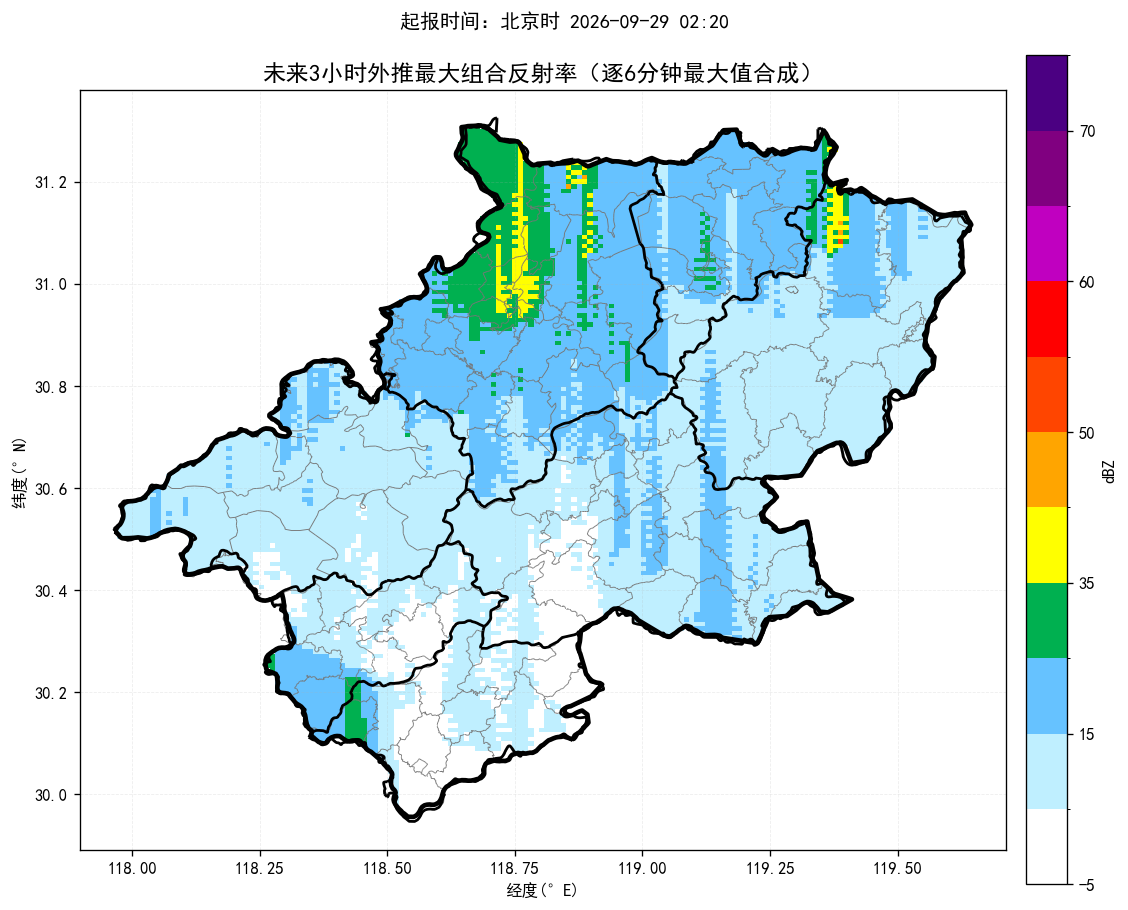
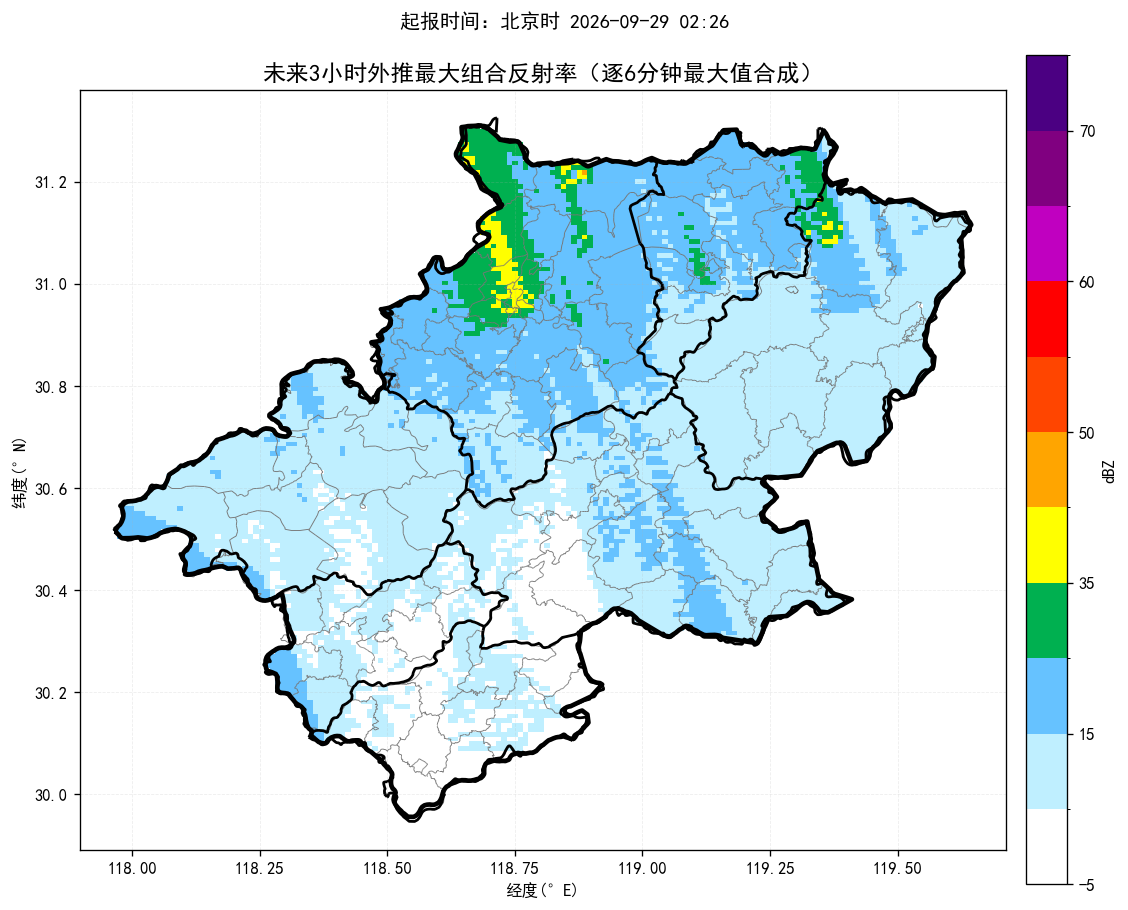
update nowcast products

diff --git a/index.html b/index.html
@@ -14,14 +14,14 @@ img.product{display:block;width:100%;height:auto;margin:10px auto 26px;border:1p
 .footer{font-size:13px;color:#777;text-align:center;margin-top:30px}
 @media(max-width:700px){.sheet{margin:0;padding:18px 15px}.alert-title{font-size:22px}.county-line{font-size:17px}.prob{font-size:18px}}
 </style></head><body><main class="sheet">
-<div class="time">起报时间：北京时 2026-09-29 02:20</div>
+<div class="time">起报时间：北京时 2026-09-29 02:26</div>
 <div class="alert-title">未来一小时降水量超过 20 毫米的乡镇：</div><div class="county-line">无</div>
 <div class="alert-title">未来三小时降水量超过 50 毫米的乡镇：</div><div class="county-line">无</div>
 <div class="alert-title">未来三小时雷暴大风（组合反射率 > 55 dBZ）的乡镇：</div><div class="county-line">无</div>
-<div class="prob">最大降水量概率预估：宣城市范围内未来三小时降水偏小，最大预报约7.6毫米，暂不进行50/80/100毫米概率预估。</div>
-<div class="section-title">未来降水预报图：</div><img class="product auto-refresh-product" data-src="短临降水预报.png" src="短临降水预报.png?v=20260929022631" alt="未来降水预报图">
-<div class="section-title">未来三小时组合反射率图：</div><img class="product auto-refresh-product" data-src="未来3小时组合反射率.png" src="未来3小时组合反射率.png?v=20260929022631" alt="未来三小时组合反射率图">
-<div class="section-title">未来三小时雷暴大风图：</div><img class="product auto-refresh-product" data-src="未来3小时雷暴大风.png" src="未来3小时雷暴大风.png?v=20260929022631" alt="未来三小时雷暴大风图">
+<div class="prob">最大降水量概率预估：宣城市范围内未来三小时降水偏小，最大预报约4.6毫米，暂不进行50/80/100毫米概率预估。</div>
+<div class="section-title">未来降水预报图：</div><img class="product auto-refresh-product" data-src="短临降水预报.png" src="短临降水预报.png?v=20260929023210" alt="未来降水预报图">
+<div class="section-title">未来三小时组合反射率图：</div><img class="product auto-refresh-product" data-src="未来3小时组合反射率.png" src="未来3小时组合反射率.png?v=20260929023210" alt="未来三小时组合反射率图">
+<div class="section-title">未来三小时雷暴大风图：</div><img class="product auto-refresh-product" data-src="未来3小时雷暴大风.png" src="未来3小时雷暴大风.png?v=20260929023210" alt="未来三小时雷暴大风图">
 <div class="footer">三张产品图每 60 秒自动刷新一次；每次请求自动附加新的URL参数以绕过缓存。</div>
 <script>
 (function() {
